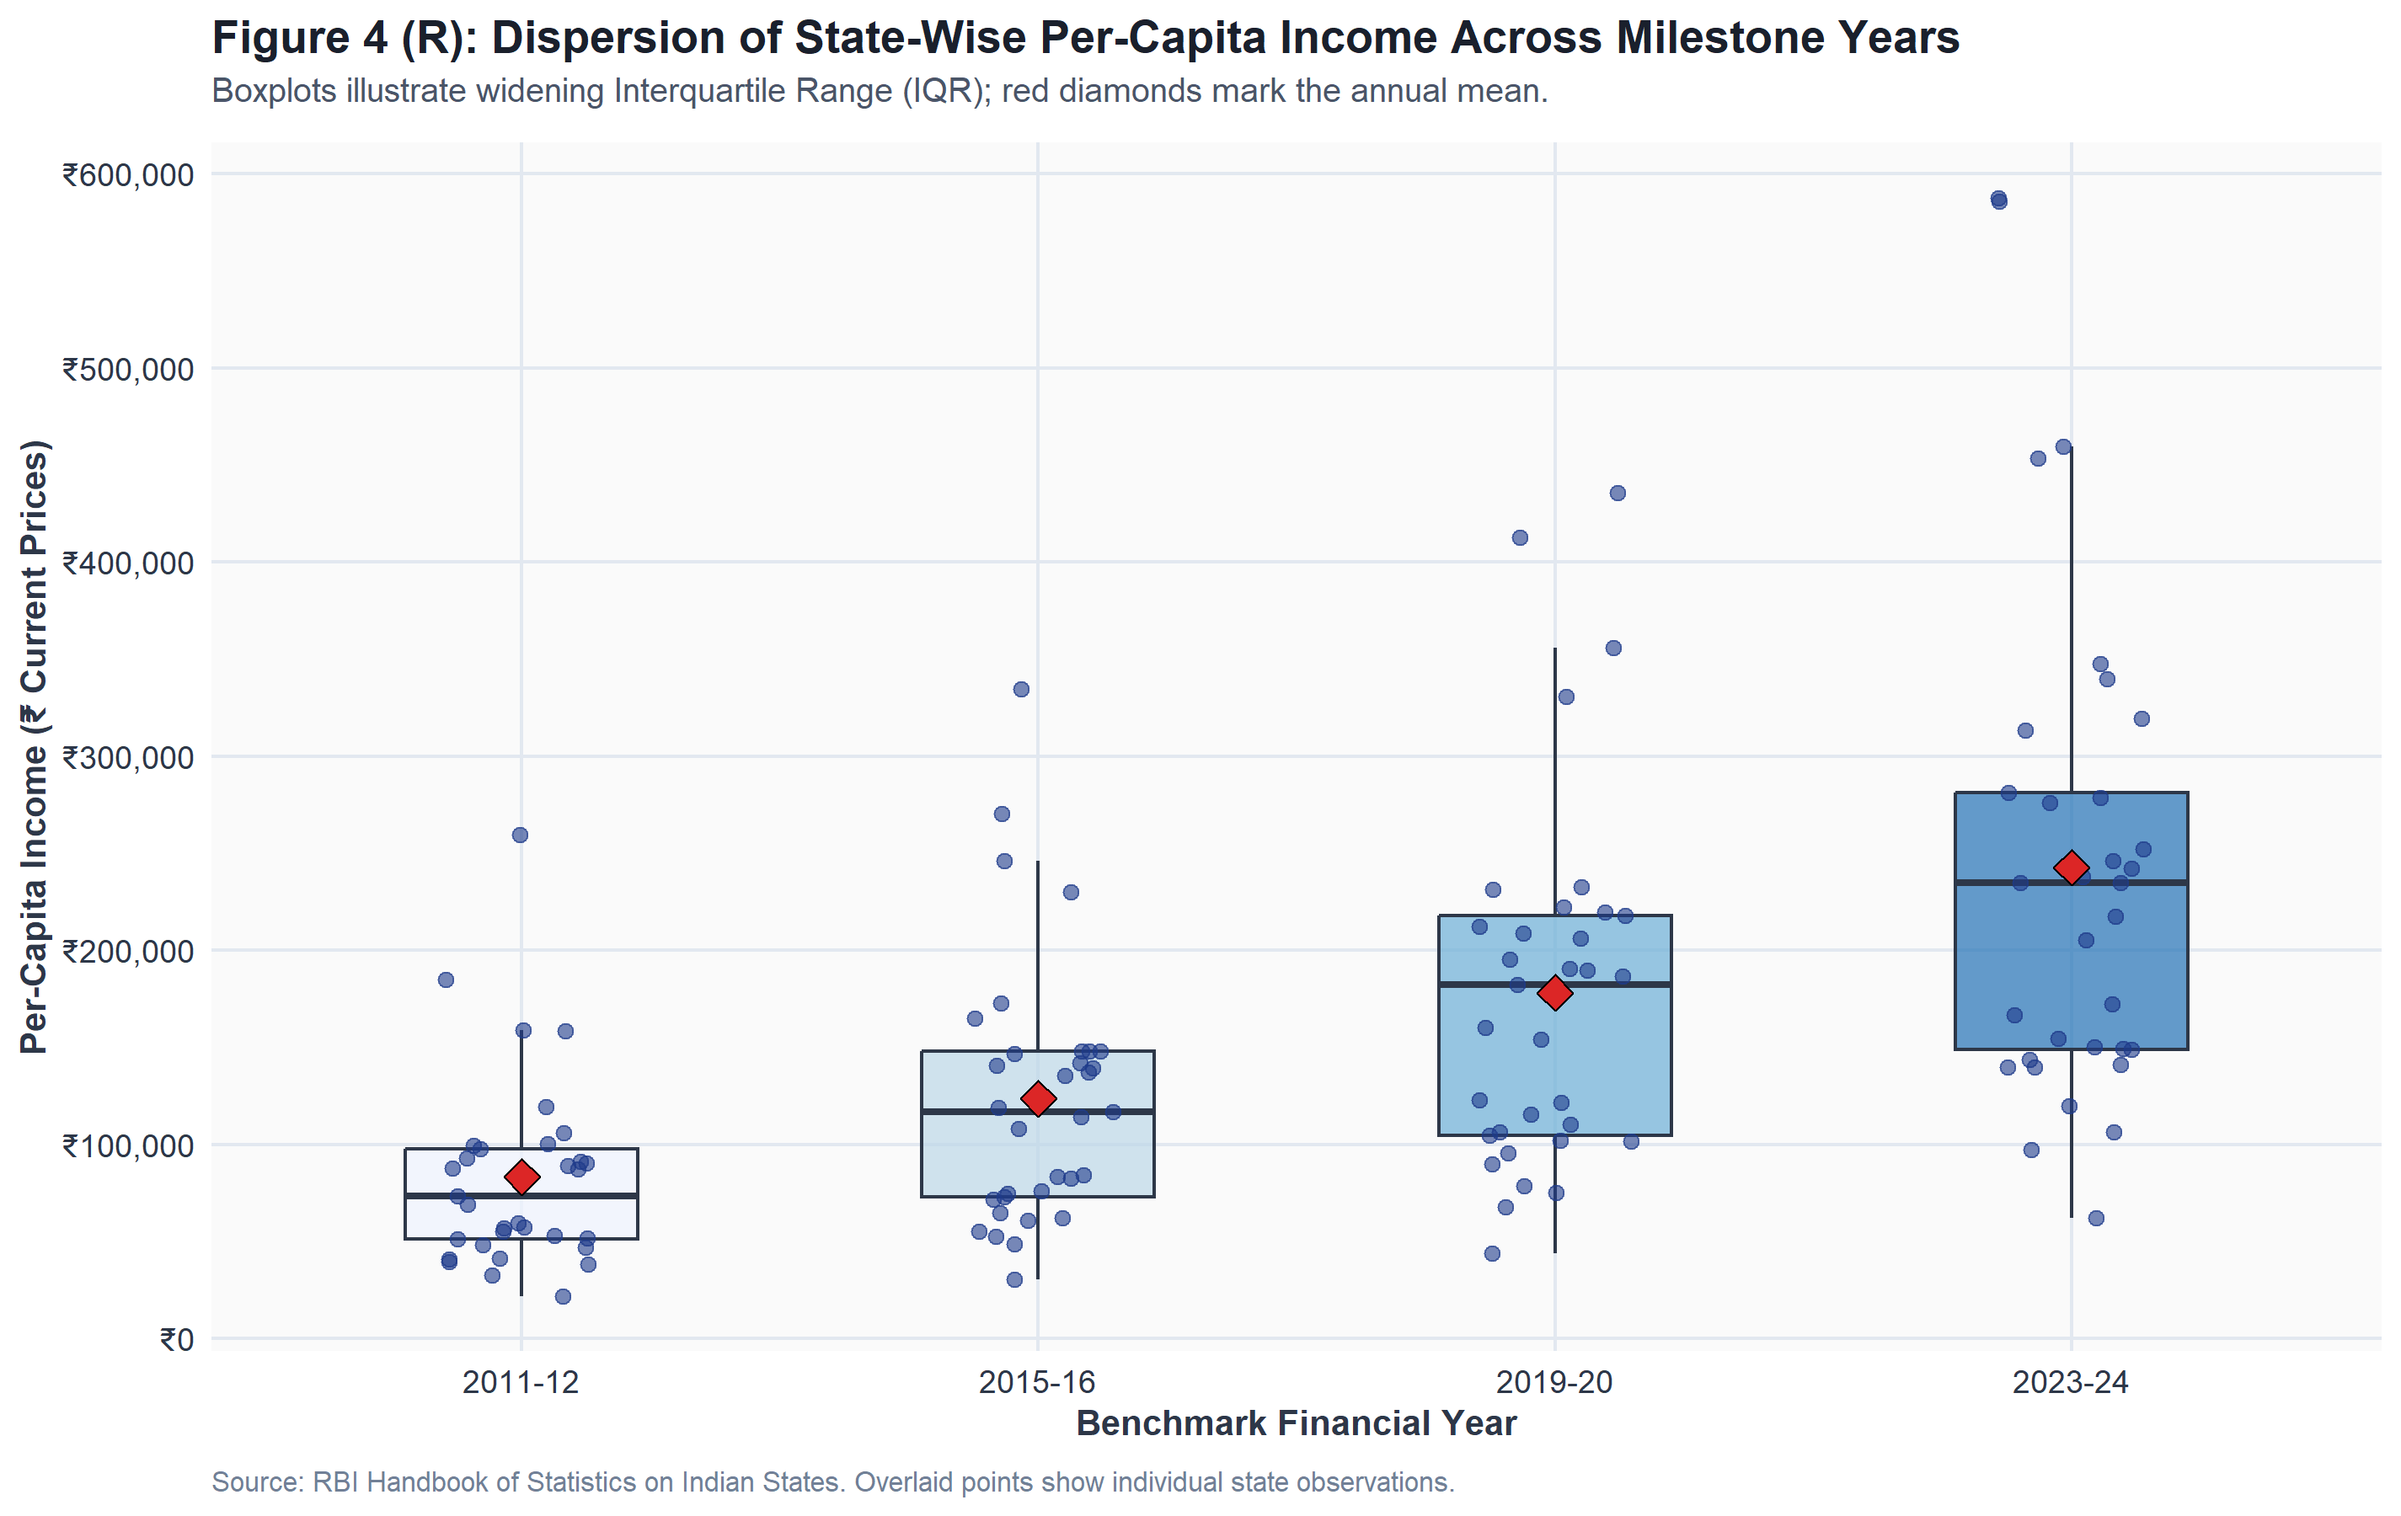
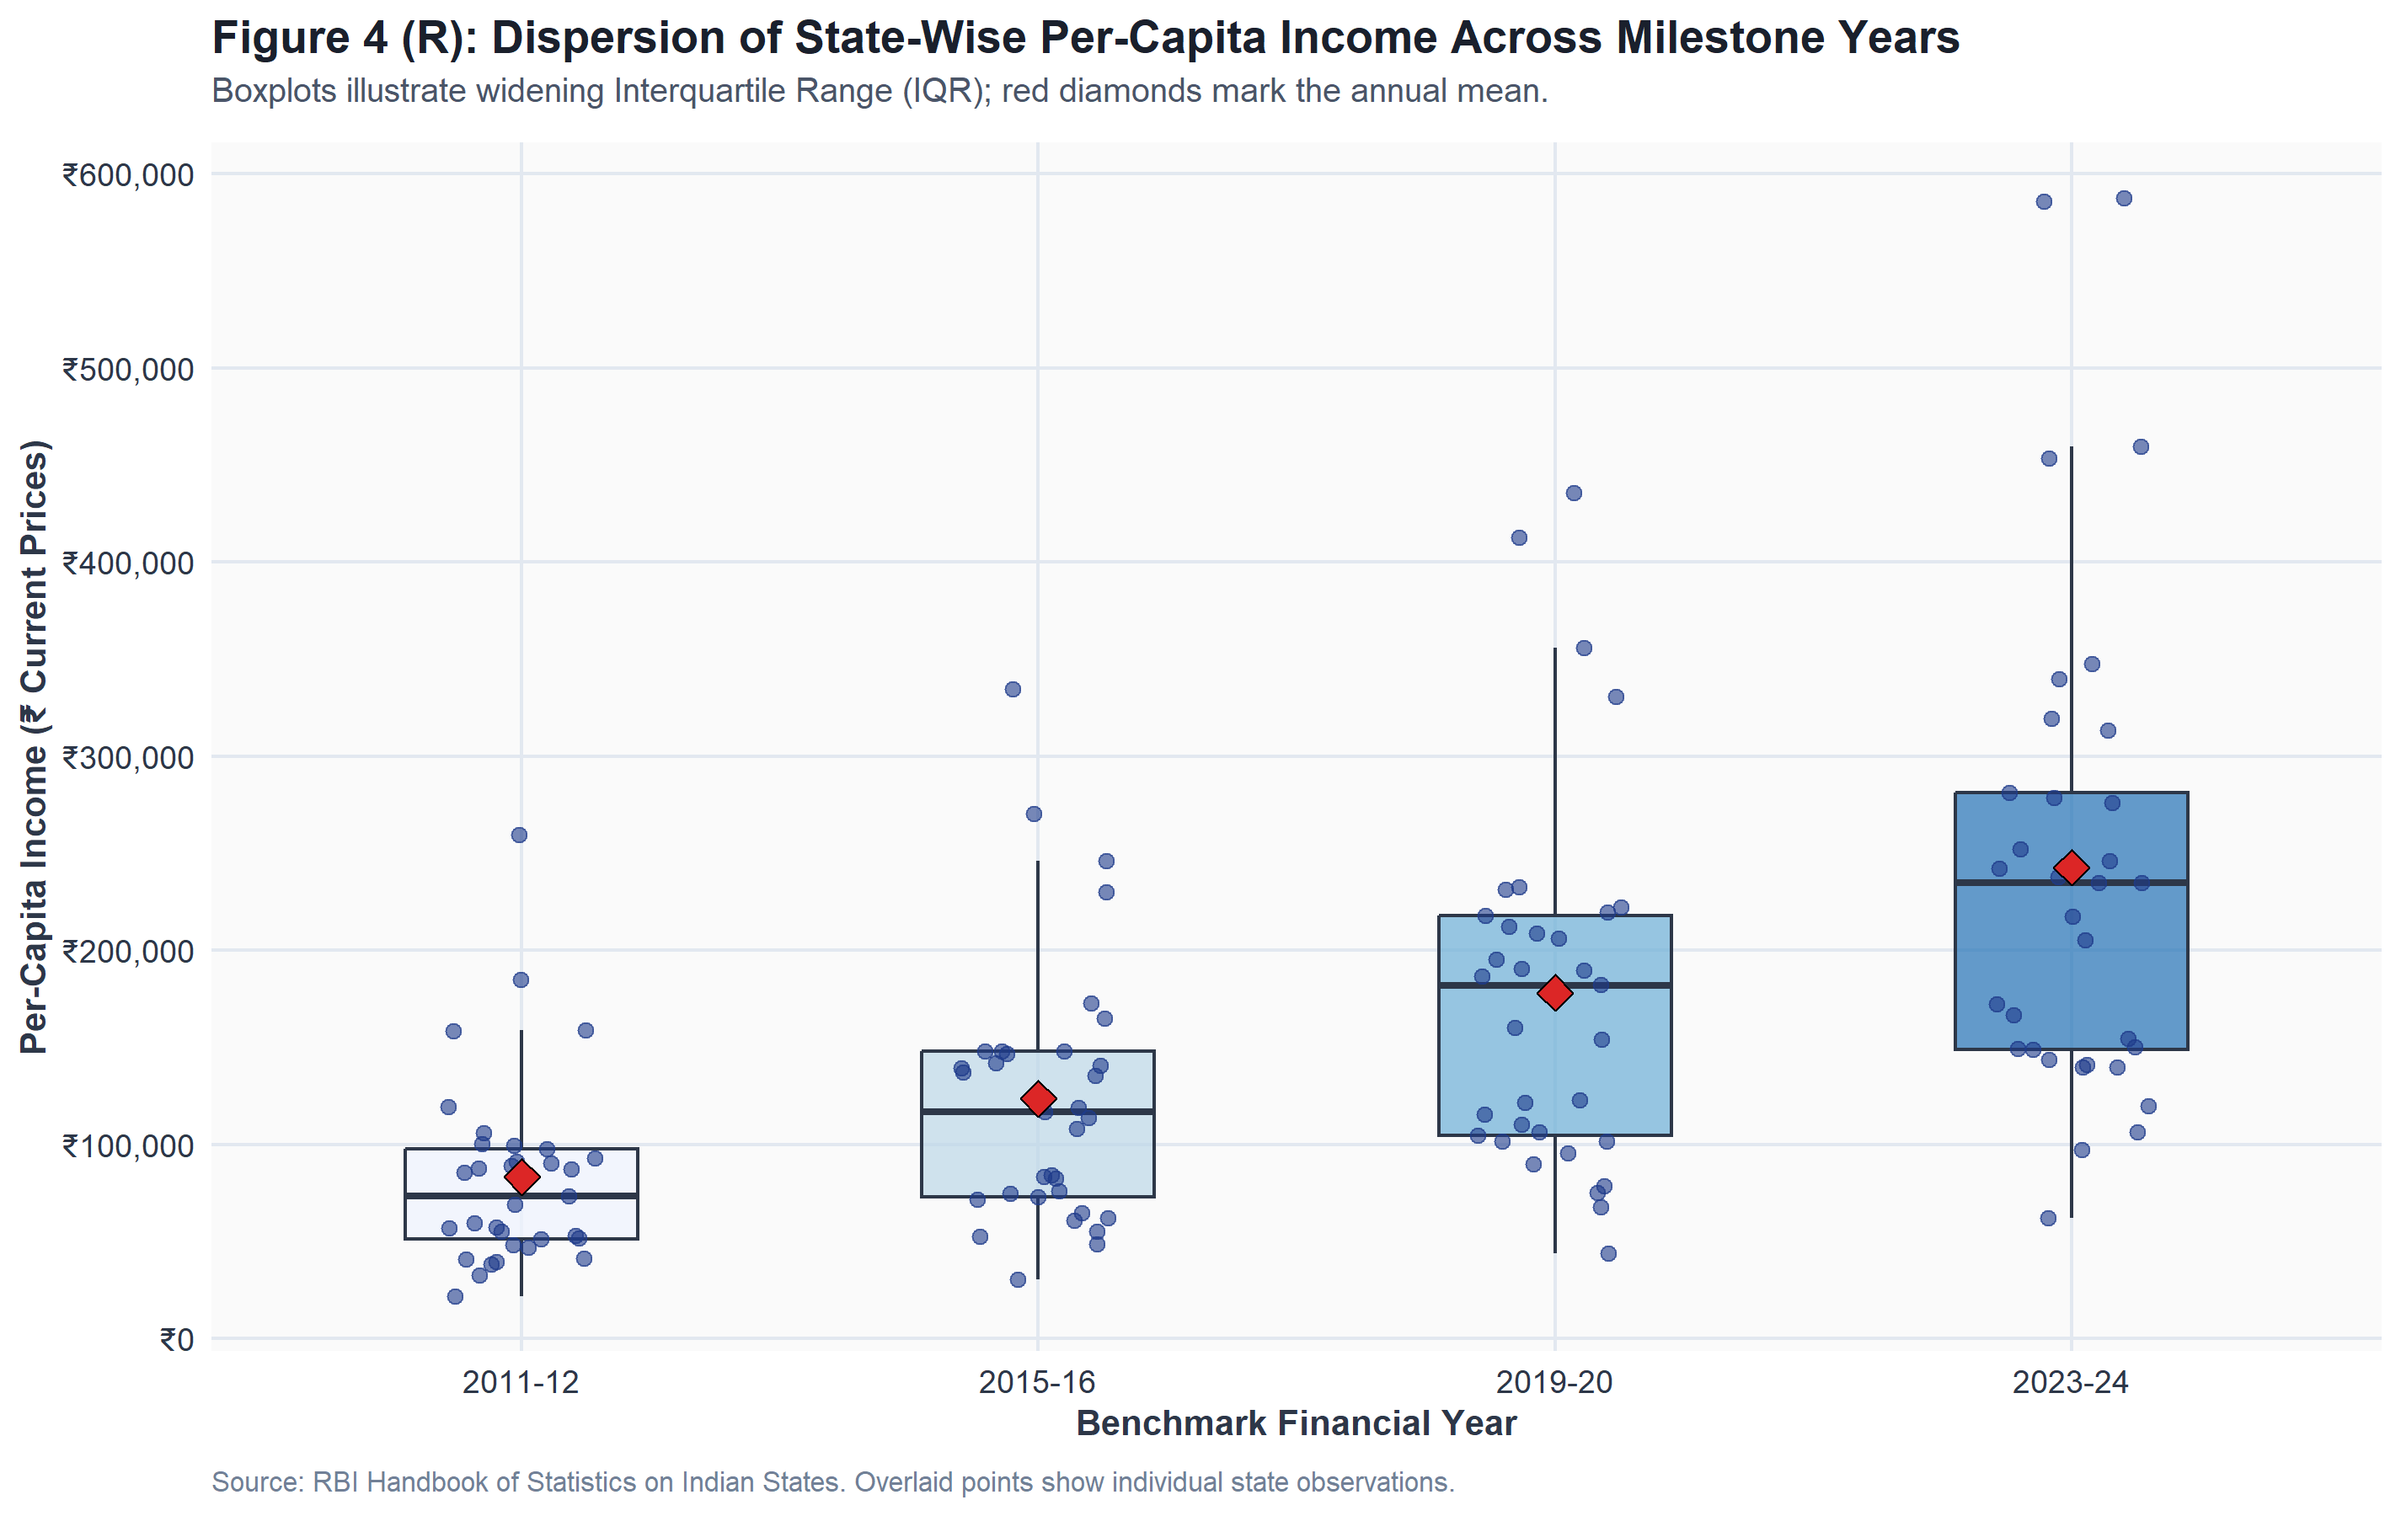
fix(audit): align data dictionary price series, dynamic tool resolution, and clean graphic artifacts

diff --git a/python/main.py b/python/main.py
@@ -123,6 +123,12 @@ def run_pipeline() -> None:
         if r_script_path.exists():
             print("\n[PIPELINE] Running Stage 5: Independent R Reproduction...")
             subprocess.run([rscript_cmd, str(r_script_path)], check=False)
+            rplots_file = project_root / "Rplots.pdf"
+            if rplots_file.exists():
+                try:
+                    rplots_file.unlink()
+                except OSError:
+                    pass
     
     print("\n" + "=" * 65)
     print(" PIPELINE EXECUTION FINISHED SUCCESSFULLY")

diff --git a/docs/data_dictionary.md b/docs/data_dictionary.md
@@ -99,9 +99,9 @@ This data dictionary provides comprehensive documentation for the harmonized ana
 ### 7. `Per_Capita_Income`
 - **Variable Name:** `Per_Capita_Income`
 - **Data Type:** Float64 (Numeric)
-- **Meaning:** Per Capita Net State Domestic Product (NSDP) at **Constant (2011-12) Prices**. Measures real economic output per resident, adjusted for inflation using the 2011-12 base year price deflator.
+- **Meaning:** Per Capita Net State Domestic Product (NSDP) at **Current Prices (2011-12 Series)**. Measures nominal economic output per resident in current Indian Rupees.
 - **Unit:** Indian Rupees (₹ / INR per person per year).
-- **Source:** Reserve Bank of India (RBI) *Handbook of Statistics on Indian States* Table on Per Capita NSDP at Constant Prices & MoSPI NAD.
+- **Source:** Reserve Bank of India (RBI) *Handbook of Statistics on Indian States* (Publication ID: 23468, Table: *Per Capita Net State Domestic Product at Current Prices*).
 - **Year Coverage:** 2011-12 to 2024-25.
 - **Transformations:**
   - Stripped Indian comma groupers (e.g. `'1,06,085'` $\rightarrow$ `106085.0`).

diff --git a/docs/data_quality_report.md b/docs/data_quality_report.md
@@ -30,7 +30,7 @@ This report provides the complete verification audit for the cleaning and mergin
 | **States in Metadata Registry** | 36 | All 36 States/UTs of India |
 | **Matched States** | 34 | 100% of income states successfully matched |
 | **Unmatched Income States** | [] | None (0 unmatched) |
-| **Unmatched Metadata States** | Dadra and Nagar Haveli and Daman and Diu, Lakshadweep | Lakshadweep, Dadra & Nagar Haveli (Expected per MoSPI policy) |
+| **Unmatched Metadata States** | Lakshadweep, Dadra and Nagar Haveli and Daman and Diu | Lakshadweep, Dadra & Nagar Haveli (Expected per MoSPI policy) |
 
 > [!NOTE]
 > **Why are Dadra & Nagar Haveli/Daman & Diu and Lakshadweep in the metadata but not the income series?**  
